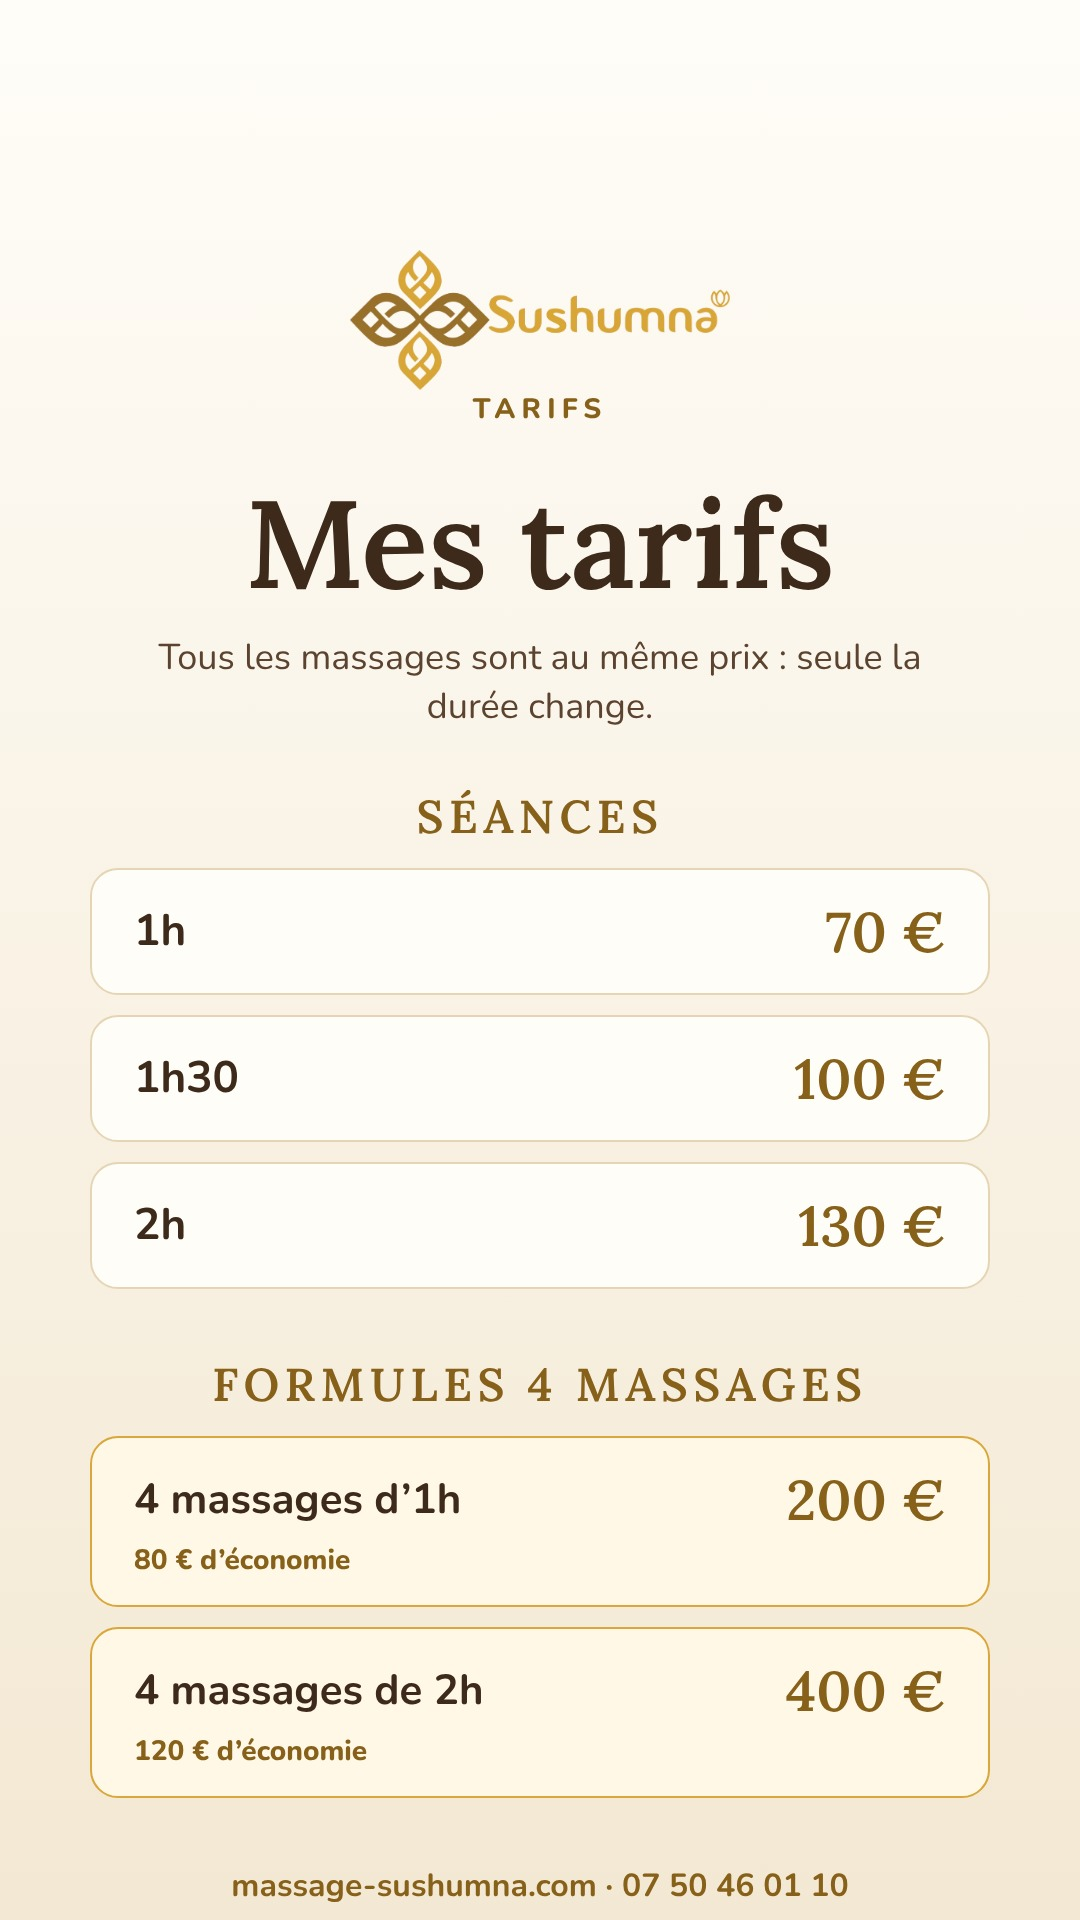
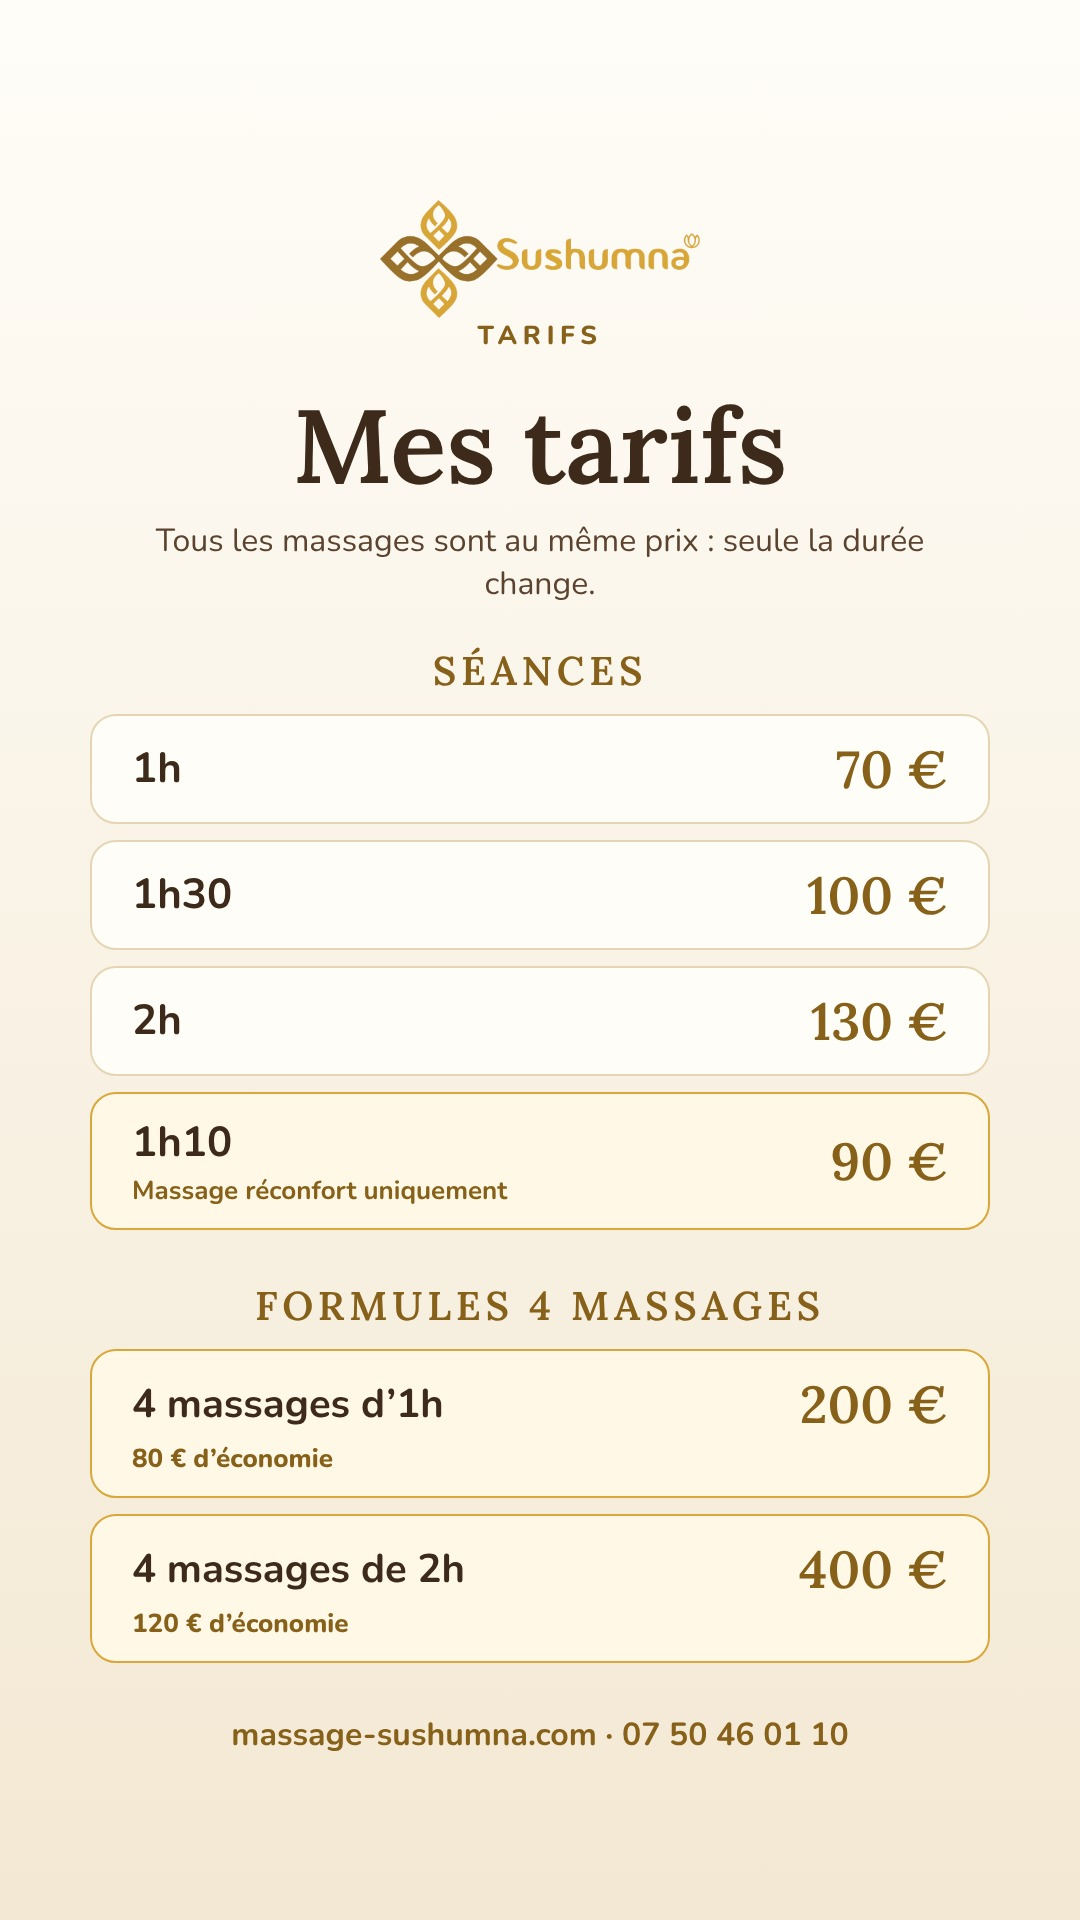
Graphisme : story tarifs avec le tarif réconfort 1h10 (90 €), prix lus depuis le site
Claude-Session: https://claude.ai/code/session_01FhKW6d7NffjTyYvYf6zG3G

diff --git a/graphisme/sources/10-story-tarifs.html b/graphisme/sources/10-story-tarifs.html
@@ -19,19 +19,21 @@ body{width:var(--w);height:var(--h);overflow:hidden;background:var(--creme);colo
 .surtitre{margin:0;font-weight:800;text-transform:uppercase;letter-spacing:.22em;color:var(--or-texte)}
 .etoiles{margin:0;color:#b9801a;letter-spacing:.14em}
 .sous{margin:0;color:var(--brun-doux)}
-.page{justify-content:flex-start;padding:250px 90px 260px;background:linear-gradient(180deg,var(--creme) 0%,var(--sable-2) 100%)}
-.logo{width:380px;height:auto}
-.titre{font-size:124px;margin:44px 0 18px}
-.sous{font-size:36px;max-width:820px;margin-bottom:56px}
-.bloc{width:100%;margin-bottom:46px}
-.bloc h2{font-family:var(--titres);font-weight:600;font-size:46px;margin:0 0 22px;color:var(--or-texte);text-transform:uppercase;letter-spacing:.12em}
-.ligne{display:flex;justify-content:space-between;align-items:center;background:var(--creme);border:2px solid var(--bordure);border-radius:28px;padding:26px 42px;margin-bottom:20px;font-size:44px;font-weight:700}
-.ligne .prix{font-family:var(--titres);font-weight:600;font-size:56px;color:var(--or-texte)}
-.formule{display:flex;flex-direction:column;align-items:flex-start;background:#fff8e6;border:2px solid var(--or);border-radius:28px;padding:26px 42px;margin-bottom:20px;text-align:left}
+.page{justify-content:flex-start;padding:200px 90px 180px;background:linear-gradient(180deg,var(--creme) 0%,var(--sable-2) 100%)}
+.logo{width:320px;height:auto}
+.titre{font-size:104px;margin:32px 0 14px}
+.sous{font-size:32px;max-width:860px;margin:0 0 40px}
+.bloc{width:100%;margin-bottom:34px}
+.bloc h2{font-family:var(--titres);font-weight:600;font-size:40px;margin:0 0 18px;color:var(--or-texte);text-transform:uppercase;letter-spacing:.12em}
+.ligne{display:flex;justify-content:space-between;align-items:center;background:var(--creme);border:2px solid var(--bordure);border-radius:26px;padding:20px 40px;margin-bottom:16px;font-size:42px;font-weight:700;text-align:left}
+.ligne small{display:block;font-size:26px;font-weight:700;color:var(--or-texte);margin-top:2px}
+.ligne .prix{font-family:var(--titres);font-weight:600;font-size:52px;color:var(--or-texte)}
+.ligne--special{background:#fff8e6;border-color:var(--or)}
+.formule{display:flex;flex-direction:column;align-items:flex-start;background:#fff8e6;border:2px solid var(--or);border-radius:26px;padding:20px 40px;margin-bottom:16px;text-align:left}
 .formule .haut{display:flex;justify-content:space-between;align-items:center;width:100%}
-.formule strong{font-size:42px}
-.formule .prix{font-family:var(--titres);font-weight:600;font-size:56px;color:var(--or-texte)}
-.formule em{font-style:normal;font-weight:800;font-size:28px;color:var(--or-texte);margin-top:6px}</style>
+.formule strong{font-size:40px}
+.formule .prix{font-family:var(--titres);font-weight:600;font-size:52px;color:var(--or-texte)}
+.formule em{font-style:normal;font-weight:800;font-size:26px;color:var(--or-texte);margin-top:4px}</style>
 </head>
 <body style="--w:1080px;--h:1920px">
 <svg width="0" height="0" style="position:absolute" aria-hidden="true">
@@ -51,19 +53,20 @@ body{width:var(--w);height:var(--h);overflow:hidden;background:var(--creme);colo
   <symbol id="discussion" viewBox="0 0 24 24"><path fill="none" stroke="currentColor" stroke-width="2" stroke-linecap="round" stroke-linejoin="round" d="M21 15a2 2 0 0 1-2 2H7l-4 4V5a2 2 0 0 1 2-2h14a2 2 0 0 1 2 2z"/></symbol>
 </svg>
 <div class="page"><img class="logo" src="../assets/logo-hd.png" alt="Sushumna">
-<p class="surtitre" style="font-size:28px">Tarifs</p>
+<p class="surtitre" style="font-size:26px">Tarifs</p>
 <h1 class="titre">Mes tarifs</h1>
 <p class="sous">Tous les massages sont au même prix : seule la durée change.</p>
 <div class="bloc">
   <h2>Séances</h2>
-  <div class="ligne"><span>1h</span><span class="prix">70 €</span></div>
-  <div class="ligne"><span>1h30</span><span class="prix">100 €</span></div>
-  <div class="ligne"><span>2h</span><span class="prix">130 €</span></div>
+  <div class="ligne"><span>1h</span><span class="prix">70 €</span></div>
+  <div class="ligne"><span>1h30</span><span class="prix">100 €</span></div>
+  <div class="ligne"><span>2h</span><span class="prix">130 €</span></div>
+  <div class="ligne ligne--special"><span>1h10<small>Massage réconfort uniquement</small></span><span class="prix">90 €</span></div>
 </div>
 <div class="bloc">
   <h2>Formules 4 massages</h2>
-  <div class="formule"><div class="haut"><strong>4 massages d’1h</strong><span class="prix">200 €</span></div><em>80 € d’économie</em></div>
-  <div class="formule"><div class="haut"><strong>4 massages de 2h</strong><span class="prix">400 €</span></div><em>120 € d’économie</em></div>
+  <div class="formule"><div class="haut"><strong>4 massages d’1h</strong><span class="prix">200 €</span></div><em>80 € d’économie</em></div>
+  <div class="formule"><div class="haut"><strong>4 massages de 2h</strong><span class="prix">400 €</span></div><em>120 € d’économie</em></div>
 </div>
 <p class="sous" style="font-size:32px;font-weight:700;color:var(--or-texte)">massage-sushumna.com · 07 50 46 01 10</p></div>
 </body>

diff --git a/graphisme/generer.js b/graphisme/generer.js
@@ -218,37 +218,42 @@ for (const [nom, icone, titre] of COUVERTURES) {
 /* ---------- Pied commun des stories ---------- */
 const PIED_STORY = `<p class="sous" style="font-size:32px;font-weight:700;color:var(--or-texte)">${CONTACT.site} · ${CONTACT.tel}</p>`;
 
-/* ---------- 10. Story « Tarifs » (1080 × 1920) ---------- */
+/* ---------- 10. Story « Tarifs » (1080 × 1920) ----------
+   Les prix sont lus directement dans mes-contenus/massages-et-tarifs.js. */
+const { TARIFS: PRIX_SEANCES, FORMULES: PRIX_FORMULES } = require('vm').runInNewContext(
+  fs.readFileSync(path.join(DOSSIER, '..', 'mes-contenus', 'massages-et-tarifs.js'), 'utf8') + ';({ TARIFS, FORMULES })',
+  {}
+);
+const euros = (n) => `${n}\u00a0€`;
 PAGES.push({
   nom: '10-story-tarifs', w: 1080, h: 1920, echelle: 1,
   html: document_({ w: 1080, h: 1920,
-    css: `.page{justify-content:flex-start;padding:250px 90px 260px;background:linear-gradient(180deg,var(--creme) 0%,var(--sable-2) 100%)}
-.logo{width:380px;height:auto}
-.titre{font-size:124px;margin:44px 0 18px}
-.sous{font-size:36px;max-width:820px;margin-bottom:56px}
-.bloc{width:100%;margin-bottom:46px}
-.bloc h2{font-family:var(--titres);font-weight:600;font-size:46px;margin:0 0 22px;color:var(--or-texte);text-transform:uppercase;letter-spacing:.12em}
-.ligne{display:flex;justify-content:space-between;align-items:center;background:var(--creme);border:2px solid var(--bordure);border-radius:28px;padding:26px 42px;margin-bottom:20px;font-size:44px;font-weight:700}
-.ligne .prix{font-family:var(--titres);font-weight:600;font-size:56px;color:var(--or-texte)}
-.formule{display:flex;flex-direction:column;align-items:flex-start;background:#fff8e6;border:2px solid var(--or);border-radius:28px;padding:26px 42px;margin-bottom:20px;text-align:left}
+    css: `.page{justify-content:flex-start;padding:200px 90px 180px;background:linear-gradient(180deg,var(--creme) 0%,var(--sable-2) 100%)}
+.logo{width:320px;height:auto}
+.titre{font-size:104px;margin:32px 0 14px}
+.sous{font-size:32px;max-width:860px;margin:0 0 40px}
+.bloc{width:100%;margin-bottom:34px}
+.bloc h2{font-family:var(--titres);font-weight:600;font-size:40px;margin:0 0 18px;color:var(--or-texte);text-transform:uppercase;letter-spacing:.12em}
+.ligne{display:flex;justify-content:space-between;align-items:center;background:var(--creme);border:2px solid var(--bordure);border-radius:26px;padding:20px 40px;margin-bottom:16px;font-size:42px;font-weight:700;text-align:left}
+.ligne small{display:block;font-size:26px;font-weight:700;color:var(--or-texte);margin-top:2px}
+.ligne .prix{font-family:var(--titres);font-weight:600;font-size:52px;color:var(--or-texte)}
+.ligne--special{background:#fff8e6;border-color:var(--or)}
+.formule{display:flex;flex-direction:column;align-items:flex-start;background:#fff8e6;border:2px solid var(--or);border-radius:26px;padding:20px 40px;margin-bottom:16px;text-align:left}
 .formule .haut{display:flex;justify-content:space-between;align-items:center;width:100%}
-.formule strong{font-size:42px}
-.formule .prix{font-family:var(--titres);font-weight:600;font-size:56px;color:var(--or-texte)}
-.formule em{font-style:normal;font-weight:800;font-size:28px;color:var(--or-texte);margin-top:6px}`,
+.formule strong{font-size:40px}
+.formule .prix{font-family:var(--titres);font-weight:600;font-size:52px;color:var(--or-texte)}
+.formule em{font-style:normal;font-weight:800;font-size:26px;color:var(--or-texte);margin-top:4px}`,
     body: `<img class="logo" src="../assets/logo-hd.png" alt="Sushumna">
-<p class="surtitre" style="font-size:28px">Tarifs</p>
+<p class="surtitre" style="font-size:26px">Tarifs</p>
 <h1 class="titre">Mes tarifs</h1>
 <p class="sous">Tous les massages sont au même prix : seule la durée change.</p>
 <div class="bloc">
   <h2>Séances</h2>
-  <div class="ligne"><span>1h</span><span class="prix">70 €</span></div>
-  <div class="ligne"><span>1h30</span><span class="prix">100 €</span></div>
-  <div class="ligne"><span>2h</span><span class="prix">130 €</span></div>
+${PRIX_SEANCES.map((t) => `  <div class="ligne${t.massage ? ' ligne--special' : ''}"><span>${t.duree}${t.massage ? `<small>${t.massage} uniquement</small>` : ''}</span><span class="prix">${euros(t.prix)}</span></div>`).join('\n')}
 </div>
 <div class="bloc">
   <h2>Formules 4 massages</h2>
-  <div class="formule"><div class="haut"><strong>4 massages d’1h</strong><span class="prix">200 €</span></div><em>80 € d’économie</em></div>
-  <div class="formule"><div class="haut"><strong>4 massages de 2h</strong><span class="prix">400 €</span></div><em>120 € d’économie</em></div>
+${PRIX_FORMULES.map((f) => `  <div class="formule"><div class="haut"><strong>${f.nom.replace(/^Formule /, '').replace("'", '’')}</strong><span class="prix">${euros(f.prix)}</span></div><em>${f.avantage.replace("'", '’')}</em></div>`).join('\n')}
 </div>
 ${PIED_STORY}` }),
 });
